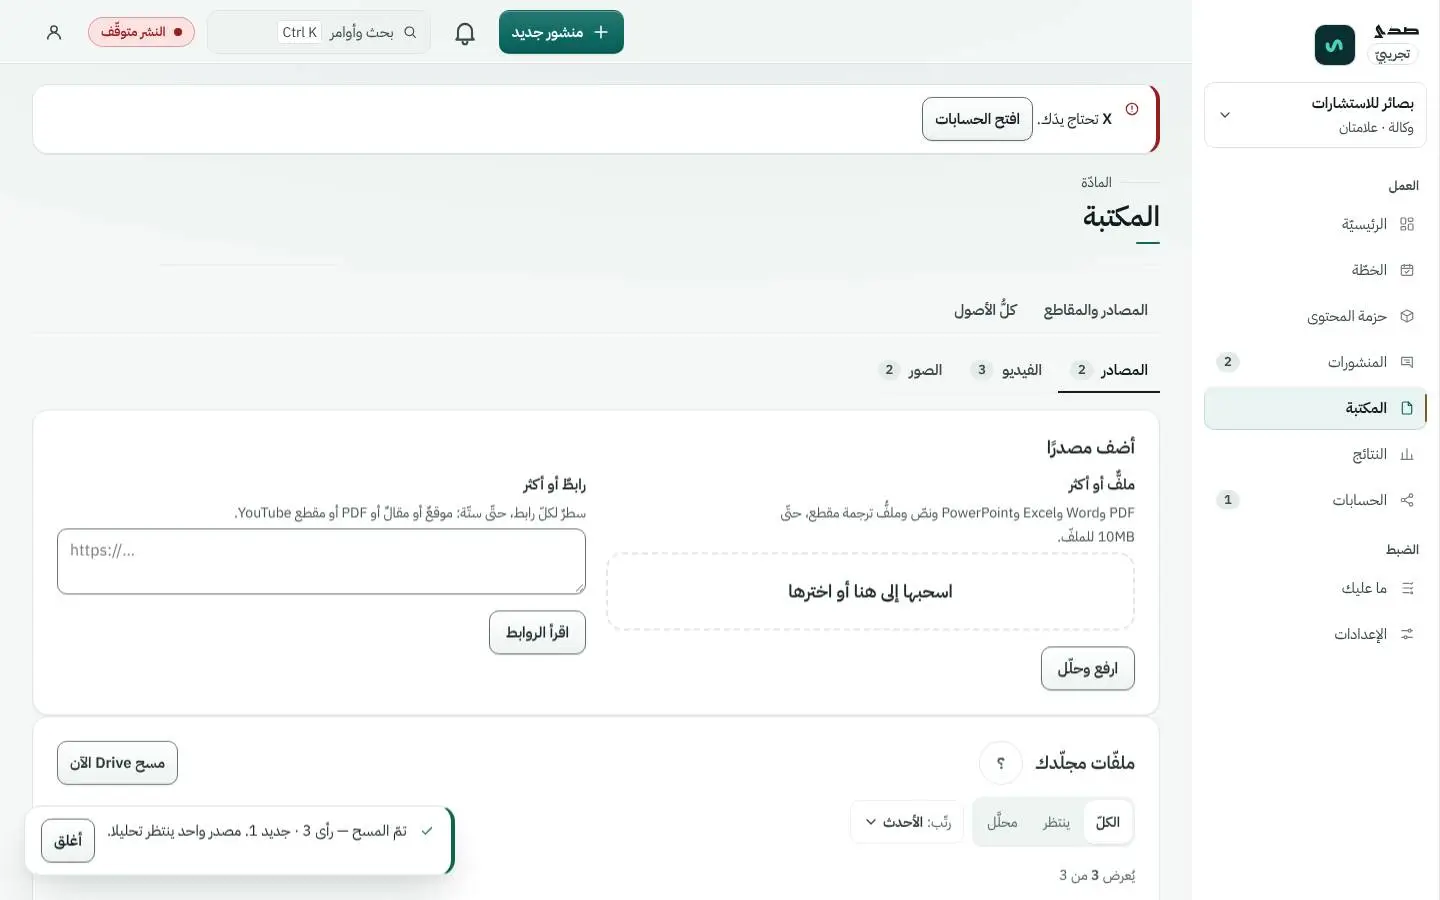
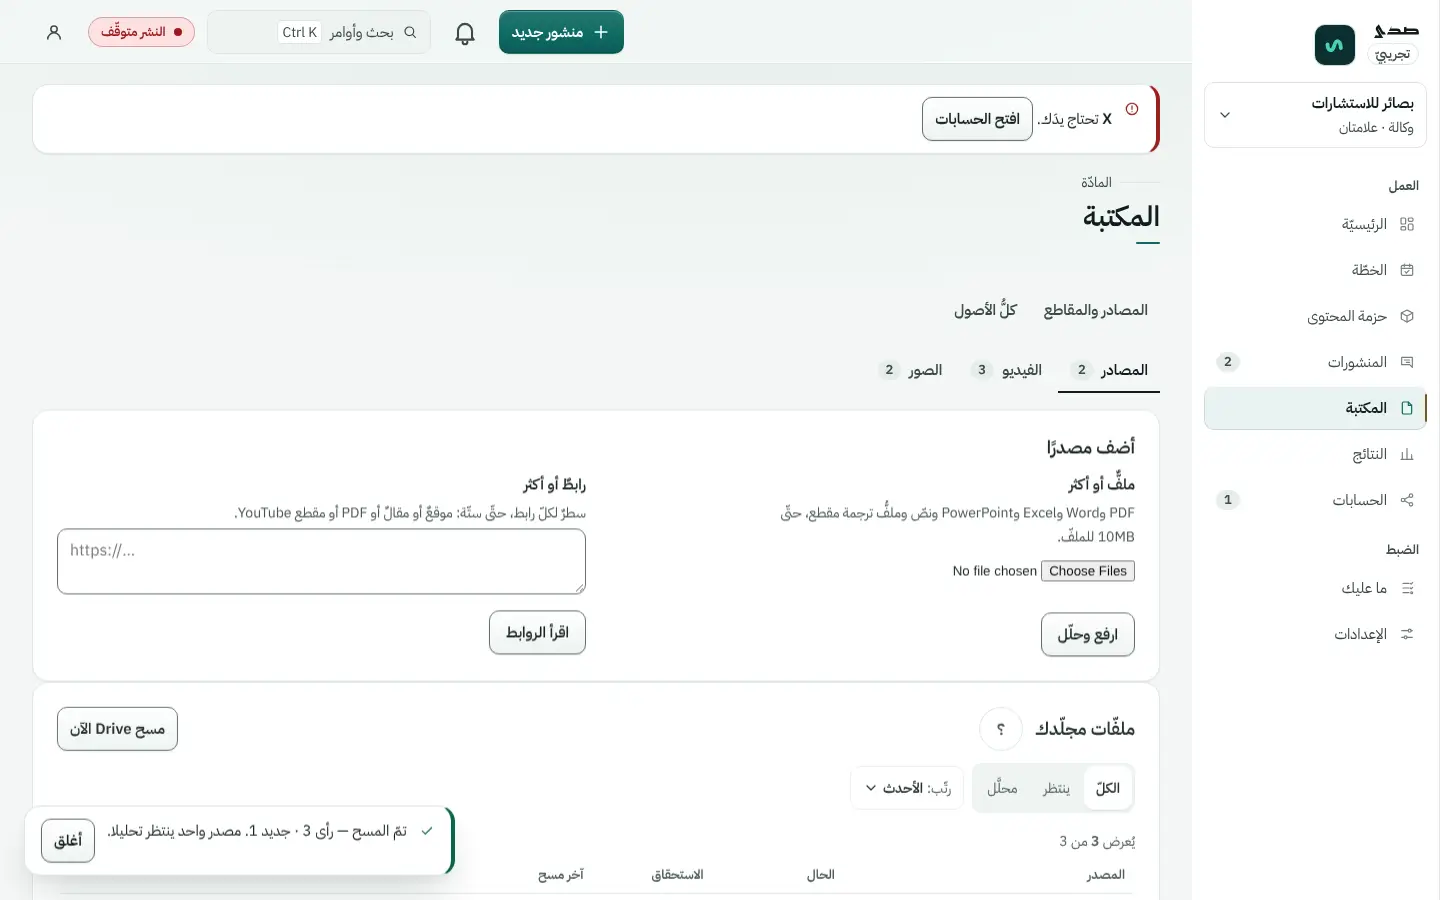
مراجعة: زرُّ الإيقاع بزاوية التحكّم، وحقلا الملفّ الأصليّان ظاهران في المكتبة و«أضف مصدرًا»، وجدولُ حال مربّعات §8 في التقرير
Claude-Session: https://claude.ai/code/session_01TkqCkN5ot2WoGukEboBHdE

diff --git a/src/routes/ui/libraryView.ts b/src/routes/ui/libraryView.ts
@@ -138,7 +138,7 @@ export function libraryScreen(d: LibraryData): string {
   const upload = '<form class="card card-inset" id="upload" method="POST" action="/panel/assets/upload" enctype="multipart/form-data">'
     + hidden(d)
     + field({ id: 'lib-up', label: 'ارفع صورة', hint: 'PNG أو JPEG أو WebP حتّى 5MB. والمقاطعُ تُرفع من «فيديوهاتك» وتظهر هنا بعدها.',
-      control: '<div class="wz-drop"><input type="file" id="lib-up" name="file" accept="' + escapeHtml(accept) + '" required><span class="wz-big">اسحبها إلى هنا أو اخترها</span></div>' })
+      control: '<input type="file" id="lib-up" name="file" accept="' + escapeHtml(accept) + '" required>' })
     + '<div class="row gap-2 mt-3">'
     + button({ label: 'ارفع' + (d.pickPost !== undefined && d.pickPost !== null ? ' واربطها بالمنشور' : d.pick === null ? '' : ' واربطه بالبند'), variant: 'primary', size: 'sm', type: 'submit' })
     + button({ label: 'فيديوهاتك', size: 'sm', href: '/panel/library#videos' })

diff --git a/src/routes/ui/sections/addSource.ts b/src/routes/ui/sections/addSource.ts
@@ -19,7 +19,7 @@ export function addSourceCard(): string {
       <form method="POST" action="/panel/sources/upload" enctype="multipart/form-data" class="stack" data-busy="يُرفع ويُحلَّل…">
         <input type="hidden" name="return" value="library">
         ${raw(field({ id: 'add-src-file', label: 'ملفٌّ أو أكثر', hint: 'PDF وWord وExcel وPowerPoint ونصّ وملفُّ ترجمة مقطع، حتّى 10MB للملفّ.',
-          control: html`<div class="wz-drop"><input type="file" id="add-src-file" name="file" accept="${accept}" multiple required><span class="wz-big">اسحبها إلى هنا أو اخترها</span></div>`.value }))}
+          control: html`<input type="file" id="add-src-file" name="file" accept="${accept}" multiple required>`.value }))}
         <div class="row">${raw(button({ label: 'ارفع وحلّل', type: 'submit' }))}</div>
       </form>
       <form method="POST" action="/panel/sources/link" class="stack" data-busy="يُقرأ الرابط…">

diff --git a/src/routes/ui/styles/12-extras.ts b/src/routes/ui/styles/12-extras.ts
@@ -504,7 +504,7 @@ a{transition:color var(--dur-1) var(--ease), text-decoration-color var(--dur-1) 
 .wz-pf-more{display:grid; gap:var(--s-4); grid-template-columns:repeat(auto-fit,minmax(min(100%,16rem),1fr)); margin-top:var(--s-4); align-items:start}
 .wz-times input{flex:1 1 6rem; min-width:0}
 .wz-pill{display:inline-flex; align-items:center; gap:var(--s-2); min-height:var(--tap); padding:var(--s-1) var(--s-4);
-  border:var(--bd); border-radius:var(--r-pill); background:var(--surface); cursor:pointer; font-size:var(--t-ui); line-height:var(--lh-ui)}
+  border:var(--bd); border-radius:var(--r-control); background:var(--surface); cursor:pointer; font-size:var(--t-ui); line-height:var(--lh-ui)}
 .wz-pill input[type=radio]{margin:0; accent-color:var(--accent)}
 .wz-pill:has(input[type=radio]:checked){border-color:var(--accent); background:var(--selected); color:var(--ink)}
 .wz-pill input[type=number]{width:calc(3ch + var(--s-8))}

diff --git a/docs/redesign/REPORT.md b/docs/redesign/REPORT.md
@@ -51,6 +51,25 @@
 15. **لقطةُ «حزمة المحتوى»**: لا رسمَ لها في سكربتات العرض، فلم تُلتقط.
 16. **تقريرُ الدمج بلقطات (§8)**: لم يُدفع شيء، والطلبُ للمالك.
 
+## حالُ مربّعات §8
+
+| المربّع | الحال |
+|---|---|
+| رأسُ صفحةٍ واحد بلا روابط رجوع | غيرُ مستوفًى: رابطُ الرجوع باقٍ (البند ٦، D-140 وD-167)، ينتظر قرارَ المالك |
+| رافدةٌ ≥ 1024px وشريطٌ سفليّ < 768px | غيرُ مستوفًى: نقاطُ الكسر مؤجَّلة (البند ٨) |
+| تنبيه YouTube مرّةً واحدة بزرّ | مستوفًى |
+| لا `border-radius: 999px` على زرّ | مستوفًى (`.wz-pill` صار `--r-control`) |
+| الأزرارُ من الأنواع الأربعة | مستوفًى |
+| وسومُ الحالة وفق 5.2 | مستوفًى ضمن حدود البند ١ |
+| لا نصّ إنجليزيّ أصليّ من المتصفّح | غيرُ مستوفًى في المكتبة و«أضف مصدرًا»: حقلُ الملفّ الأصليّ ظاهرٌ عمدًا، لأنّ إخفاءه بلا سكربت يُخفي اسمَ ما اختاره المالك |
+| لا عناوين مقطوعة بنقاط في الخطّة | غيرُ مستوفًى: D-351 (البند ١٢) |
+| الخطّةُ المنتهية تُعلَّم في الرئيسيّة | غيرُ مستوفًى: ينتظر قرارَ المالك في المصطلح الجديد (البند ١١)؛ ولا مصطلحَ قائمًا في المعجم يصلح لوسم `--warn` دون اختراع |
+| الفاتحُ والداكن في كلّ الصفحات | مستوفًى |
+| لا تمريرَ أفقيّ على 375px | مستوفًى |
+| الأسماءُ والعناوين والمصطلحات كما كانت | مستوفًى |
+| لا تغييرَ في البيانات أو الـ API | مستوفًى |
+| لقطاتُ قبل/بعد في الـ PR | غيرُ مستوفًى: لم يُدفع شيء، والطلبُ للمالك (البند ١٦) |
+
 ## اقتراحاتُ أسماء (لم تُطبَّق)
 
 لا يُغيَّر اسمُ صفحةٍ ولا عنوان إلا بقرار المالك. هذه اقتراحاتٌ فقط:
